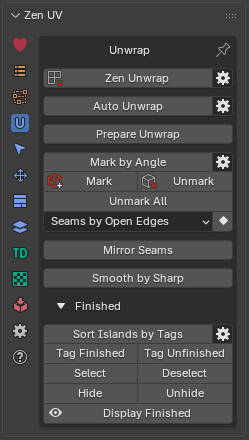
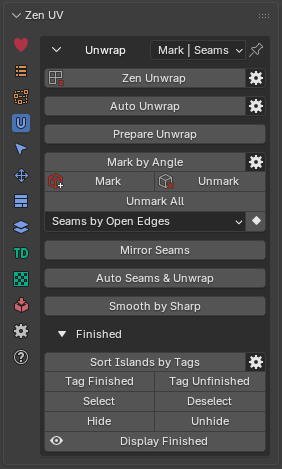
upd

diff --git a/mkdocs/trimsheet_creation.md b/mkdocs/trimsheet_creation.md
@@ -160,12 +160,43 @@ It is also possible to select trim by `LMB` in the viewport by activating select
     - *Ignore Color* - Does not duplicate trim color settings
     - *Clear Selection* - Clear selection from source trims after duplicating
 
-### Menu
-A menu with operators e.g. copy paste, or operations on all items.
+---
+### Trim List Utility Menu
 
-!!! Menu
-    ![](img/screen/trimsheet/trim_menu.png)
+Provides access to clipboard operations, batch renaming tools, import/export functions, and management utilities for the active Trim Sheet. Access this menu by clicking the specials drop-down arrow button located on the right toolbar of the **Trim List**.
 
+| ![Trim List Utility Menu](img/screen/trimsheet/trim_menu.png) |
+| :---: |
+| *Fig. 1. Trim List utility menu* |
+
+- **[Copy](#copy-trims-to-clipboard) / [Paste](#paste-trims-from-clipboard)** — Copy selected trim configurations to the clipboard and paste them into another Trim Sheet or session.
+- **[Batch Rename](#batch-rename)** — Rename multiple trims at once using structured naming patterns.
+- **[Add Trims](#add-trim-grid)** — Sub-menu containing automated and bulk trim creation utilities.
+      - **[Add Trim Grid](#add-trim-grid)** - Create Grid of Trims inside active, selected Trims, from Zero coordinates or 2D cursor position
+      - **[Add Trim UDIM](#add-trim-udim)** - Creates trims in positions and with UDIM tile sizes
+      - **[Add Trim By Custom Region](#add)** - Add trim by uv custom region coordinates. Requires uv custom region to be enabled and set
+      - **Add Trims From Color Masks** - Create trims from image color masks
+
+- **Select Trims** — Sub-menu with tools to select trims based on specific conditions or properties.
+    - **Select Trims** - Select, deselect all trims or invert selecton
+    - **Select Trims By Size** - Select trims by their width, height, or a combination of both
+
+- **Import / Export** — Import or export trim definitions, presets, and layout maps.
+    - **Import SVG** - Load trimsheet from SVG
+    - **Import DECALmachine Trims** - Import trims from Decalmachine trim sheet
+    
+    - **Export SVG** - Save trimsheet to SVG
+    - **Export PNG** - Save trimsheet to PNG
+    - **Export TGA** - Save trimsheet to TGA
+    - **Export BMP** - Save trimsheet to BMP
+
+- **Set Trim World Size** — Calculate and apply physical world-space scale dimensions to selected trims.
+- **Select Island by Trim Name** — Select Islands inside Trim defined by name.
+- **Trim Bounds by Custom Region / Custom Region by Trim Bounds** — Synchronize trim boundary dimensions with defined custom UV regions.
+- **Frame Active Trim / Frame Selected Trims** — Frame and focus the UV Editor viewport on the active or selected trim boundaries.
+- **Clear Trimsheet Preview Folder** — Clear cached preview thumbnail images to clean up storage or refresh broken previews.
+
+---
 #### Copy Trims to Clipboard
 
 Copy [active](#active-trim), [selected](#selected-trims) or [all trims](#trims-list) to clipboard
@@ -177,6 +208,7 @@ Copy [active](#active-trim), [selected](#selected-trims) or [all trims](#trims-l
 - *Selected* - Copy selected trims.
 - *All* - Copy all trims in the trimsheet.
 
+---
 #### Paste Trims from Clipboard
 Paste copied trims from clipboard.
 
@@ -187,6 +219,7 @@ Paste copied trims from clipboard.
 - *Add* - Add trims to the end of trim sheet
 - *Replace* - Add new trims and replace trims with the same name
 
+---
 #### Batch Rename
 Can rename many trims at once. This uses a pop-up dialog with operations and their options to change the name. These actions are applied in order, from first to last in a trim sheet.
 
@@ -203,7 +236,7 @@ Can rename many trims at once. This uses a pop-up dialog with operations and the
 - **Counter** - Integer value will be added to the end of the name.
 - **Start from** - If Counter property is used, integer value will be started from this value.
 
-
+---
 #### Add Trim Grid
 Create grid of trims inside active, selected trims, from zero coordinates or 2D cursor position.
 
@@ -222,6 +255,7 @@ Create grid of trims inside active, selected trims, from zero coordinates or 2D 
 - **Margin** - The gap between Trims.
 - **Remove Template** - Delete the Trim that served as a template.
 
+---
 #### Add Trim UDIM
 Creates trims in positions and with UDIM tile sizes.
 
@@ -236,6 +270,17 @@ Creates trims in positions and with UDIM tile sizes.
 - **Udims End** - Udims range end.
 - **Trim Count Limit** - Limit the number of trims.
 
+---
+#### Add Trim by Custom Region
+
+Creates a new trim entry using the precise coordinates and dimensions of the active UV **Custom Region**.
+
+- **Prerequisites:** Requires the **Custom Region** tool (`Ctrl + Alt + B`) to be enabled and set in the UV Editor.
+- **Workflow:** Once a custom rectangular region is drawn in the UV viewport, running this operator automatically converts its bounding box into a corresponding Trim entry in the Trim List.
+
+For more details on **Custom Regions** and how they interact with trims, see [Trim Bounds by Custom Region](#trim-bounds-by-custom-region).
+
+---
 #### Add Trims From Color Masks
 Create trims from a defined image containing color mask data.
 
@@ -248,21 +293,45 @@ Create trims from a defined image containing color mask data.
     - *Multicolor* - Image contains multiple masks with the same color.
 - **Color Masks Limit** - How many unique colors could be processed in image.
 
+---
 #### Add Trims From Zen Sets
 Create trims from Zen Sets groups mesh elements with keeping its names. Available only if Zen Sets is installed.
 
 #### Set Trim World Size
 Set trim 'World Size' property based on texture size. Works on selected trims.
 
+---
+#### Select Islands by Trim Name
+
+Select Islands inside Trim defined by name
+
+---
+#### Trim Bounds by Custom Region
+
+| ![Custom Region and Trim bounds](img/screen/trimsheet/trim_to_custom_region_screen.png) |
+| :---: |
+| *Fig. 1. Custom Region and Trim bounds* |
+
+Sets the trim size and position to match the UV Custom Region
+
+---
+#### Custom Region by Trim Bounds
+
+Sets UV Custom Region size and position to match the active trim
+
+---
 #### Frame Trim
 Moves view to active or selected trims center in UV editor.
 
+---
 #### Clear Trimshet Preview Folder
 Clear folder where trimsheet preview temporary icons are stored.
 
+---
 #### Move
 Moves the selected item up/down one position. (up/down arrow icon).
 
+---
 #### Delete All
 Deletes all trims in the trim sheet.
 
@@ -271,27 +340,33 @@ Deletes all trims in the trim sheet.
 !!! Presets
     ![](img/screen/trimsheet/trim_presets.png)
 
+---
 ### Preset Selector
 A list of available presets. A selection will override the included properties.
 
 !!! Notice
     If name in preset selector is marked with asterix then it shows name of category and active preset is not selected
 
+---
 ### Add
 New presets can be added based on a predefined set of properties, which will be saved for later reuse. A pop-up opens where you can set a name after which you can select it from the list and in some cases additional settings.
 
+---
 ### Remove
 Deletes the selected preset.
 
+---
 ### Open Presets Folder
 You can override the default presets folder with your own path
 
+---
 ## Trim Settings
 Trim settings property inspector shows settings of the active trim
 
 !!! Dimensions
     ![](img/screen/trimsheet/trim_axis.png)
 
+---
 ### Trim Units
 By default trim units are in UV points based on values from 0 to 1, but it is possible to switch to image pixels depending on image size.
 
@@ -314,31 +389,40 @@ By default trim units are in UV points based on values from 0 to 1, but it is po
 - **Max** - The maximum length axis is automatically determined
 - **Automatic** - Automatically detected axis for full dimensional compliance
 
+---
 ### Inset
 Trim inset
 
+---
 ### Keep Proportion
 Keep trim proportions while transforming
 
+---
 ### Match Rotation
 Match trim rotation
 
+---
 ### Align To
 Align to remembered directions in Fit, Align operations
 
+---
 ### Normal
 
 An imaginary normal representing Trim's orientation if it were in 3D space
 
+---
 ### World Size
 Width and height of trim in [UV world size calculation units](#units)
 
+---
 ### Units
 UV world size calculation units
 
+---
 ### Tags
 Trim tags
 
+---
 ### How to apply same settings to multiple trims?
 | ![](img/screen/trimsheet/trim_group_settings.png) |
 |---|
@@ -347,6 +431,7 @@ Trim tags
 1. Select 2 or more trims
 2. Press Apply button
 
+---
 #### Check the equality of properties in selected trims
 
 | | |
@@ -354,14 +439,17 @@ Trim tags
 | ![](img/screen/trimsheet/trim_prop_not_active.png) | Properties are not equal |
 | ![](img/screen/trimsheet/trim_prop_active.png) | Properties are equal |
 
+---
 ## Display Trims
 Trims can be displayed in viewport with special gizmo layer
 
+---
 ### Trims Display Overlay in UV Image Editor
 | ![](img/screen/trimsheet/trim_display.png) |
 |---|
 | |
 
+---
 ### Trims Display Polygon Overlay in 3D Viewport
 !!! Note
     Trims display in 3D Viewport is enabled only if Zen UV Tool is active and active object has active polygon
@@ -370,25 +458,31 @@ Trims can be displayed in viewport with special gizmo layer
 |---|
 | |
 
+---
 ### Trims Display Overlay Widget in 3D Viewport
 Trims can be displayed in overlay widget. To activate it you need to press gizmo button in the right side of 3D viewport
 
+---
 | ![](img/screen/trimsheet/trim_display_widget.png) |
 |---|
 | |
 
+---
 #### Overlay Widget Locking Options
 Trims display overlay widget can be moved by `Shift + Middle Mouse Button` and scaled by `Mouse Wheel Up|Down`. And its position can be locked in the settings
 
+---
 | ![](img/screen/trimsheet/trim_display_widget_locked.png) |
 |---|
 | |
 
+---
 ## Transform Trims
 | ![](img/screen/trimsheet/trim_transform.png) |
 |---|
 | |
 
+---
 ### Align Trims
 Determines how selected trims will be aligned.
 
@@ -398,6 +492,7 @@ Use Align to align selected trims to the top, bottom, left, or right of an activ
 |---|
 | |
 
+---
 ### Crop Trims
 Use Crop to crop selected trims or all trims by UV area bounds
 
@@ -405,6 +500,7 @@ Use Crop to crop selected trims or all trims by UV area bounds
 |---|
 | |
 
+---
 ### Adjust Trims
 Set the same width or height of the selected trim. You can select to use minimum or maximum value.
 
@@ -412,6 +508,7 @@ Set the same width or height of the selected trim. You can select to use minimum
 |---|
 | |
 
+---
 ### Distribute Trims
 Use Distribute to distribute selected trims at equal distances between each other, starting distribution as is or from active trim, or from UV area bounds
 

diff --git a/mkdocs/unwrap.md b/mkdocs/unwrap.md
@@ -5,6 +5,22 @@
      |---|---|  
      | ![3D Viewport Panel](img/screen/unwrap/unwrap_panel_3d.png) | ![UV Editor Panel](img/screen/unwrap/unwrap_panel_uv.png) | 
 
+---
+### Global Mark Settings
+
+Controls global edge-marking behavior across all operators in the Mark System.
+
+Enabling global settings provides centralized control over edge flags, ensuring tools throughout the Mark System apply Seams and Sharp edges consistently without needing to adjust settings on individual operators.
+
+| ![Global Mark Settings](img/screen/unwrap/unwrap_global_mark_settings.png) |
+| :---: |
+| *Fig. 1. Global Mark Settings menu* |
+
+- **Use Global Mark Settings** — Overrides individual tool settings with these global defaults. When disabled, each Mark System operator uses its own independent configuration.
+- **Mark Seams** — Automatically marks target edges as UV Seams during marking operations.
+- **Mark Sharp Edges** — Automatically marks target edges as Sharp Edges during marking operations.
+
+---
 ## Unwrap Inplace
 
 Unwrap Islands and Faces keeping their Size, Orientation and Location in UV Space.
@@ -77,13 +93,6 @@ Apply all geometry modifications before resetting for a clean unwrap
 
 Mark edges as Seams and/or Sharp edges by Angle.
 
-!!! Global Mark Settings
-    ![](img/screen/unwrap/mark_by_angle_prefs.png)
-
-    - **Use Global Mark Settings**. In this mode, all the operators from the Mark System use the settings below. If off, every operator uses its own settings.
-    - **Mark Seams**. Automatically assign Seams
-    - **Mark Sharp Edges**. Automatically assign Sharp edges
-
 !!! Tip
     This operator supports the ability to [save default properties](user_interface.md/#save-as-default-operator-properties).
 
@@ -150,6 +159,29 @@ Instead of **Replacing** existing marked Seams you can **Add** them.
 Holding `Shift` you can select both directions and flip Seams along the selected Axis and direction.
 
 ![](img/screen/unwrap/unwrap_mirror_3.gif)
+
+---
+## Auto Seams & Unwrap
+
+Partitions mesh geometry into logical topological charts based on surface planarity, automatically places UV seams along chart boundaries, and optionally unwraps the resulting UV islands in a single pass.
+
+This operator provides an automated unwrapping pipeline suitable for both organic meshes and hard-surface models, eliminating manual seam placement while minimizing UV area distortion and preventing micro-island fragmentation.
+
+!!! Properties
+    ![Auto Seams & Unwrap Operator Properties](img/screen/unwrap/auto_seams_op_prop.png)
+
+- **Mode** — Quick presets tailored for standard surface workflows:
+    - *Hard Surface* — Sets **Quality** to `0.5` and **Hard Edge Angle** to `30°` for mechanical objects and hard-surface models with bevels.
+    - *Organic* — Sets **Quality** to `0.32` and **Hard Edge Angle** to `0°` (disabled) for character models, creatures, and smooth organic surfaces.
+    - *Custom* — Switches to manual control, allowing custom property adjustments.
+- **Hard Edge Angle** — Angle threshold at which sharp edges are strictly marked as UV seams. Setting this to `0°` disables hard-edge seam splitting for organic geometry.
+- **Quality** — Controls chart merging aggressiveness:
+    - *Lower values* — Produce more UV islands with sharper, highly accurate topological boundaries.
+    - *Higher values* — Merge charts more aggressively, producing fewer total islands at the expense of higher UV stretch.
+- **Boundary Smoothing** — Aggressiveness of chart boundary contour smoothing after region merging. Helps create cleaner, less jagged UV seam lines.
+- **Min Island Faces** — Minimum face count required for an island. Smaller chart fragments are absorbed into surrounding neighbor charts before seam generation to prevent micro-islands.
+- **Unwrap** — Enables automatic execution of the standard UV Unwrap pass immediately after seams are placed.
+- **UV Unwrap Panel** — Embedded Blender UV Unwrap settings (e.g., **Method**, **Margin**, **Correct Aspect**, **Iterations**) applied when **Unwrap** is active.
 
 ---
 ## Smooth by Sharp

diff --git a/mkdocs/transform_sys/advanced_operators.md b/mkdocs/transform_sys/advanced_operators.md
@@ -333,5 +333,5 @@ Align selected islands or selection
 ![](../img/icons/transform-distribute.png)
 
 - [**Distribute and Sort**](unified_transform_sys.md#distribute-and-sort) - Distributes and sorts selected islands
-- [**Arrange**](unified_transform_sys.md#arrange) - Arrange selected islands
+- [**Arrange**](unified_transform_sys.md#arrange-islands) - Arrange selected islands
 - [**Distribute Vertices**](unified_transform_sys.md#distribute-vertices) - Distribute vertices along the line
